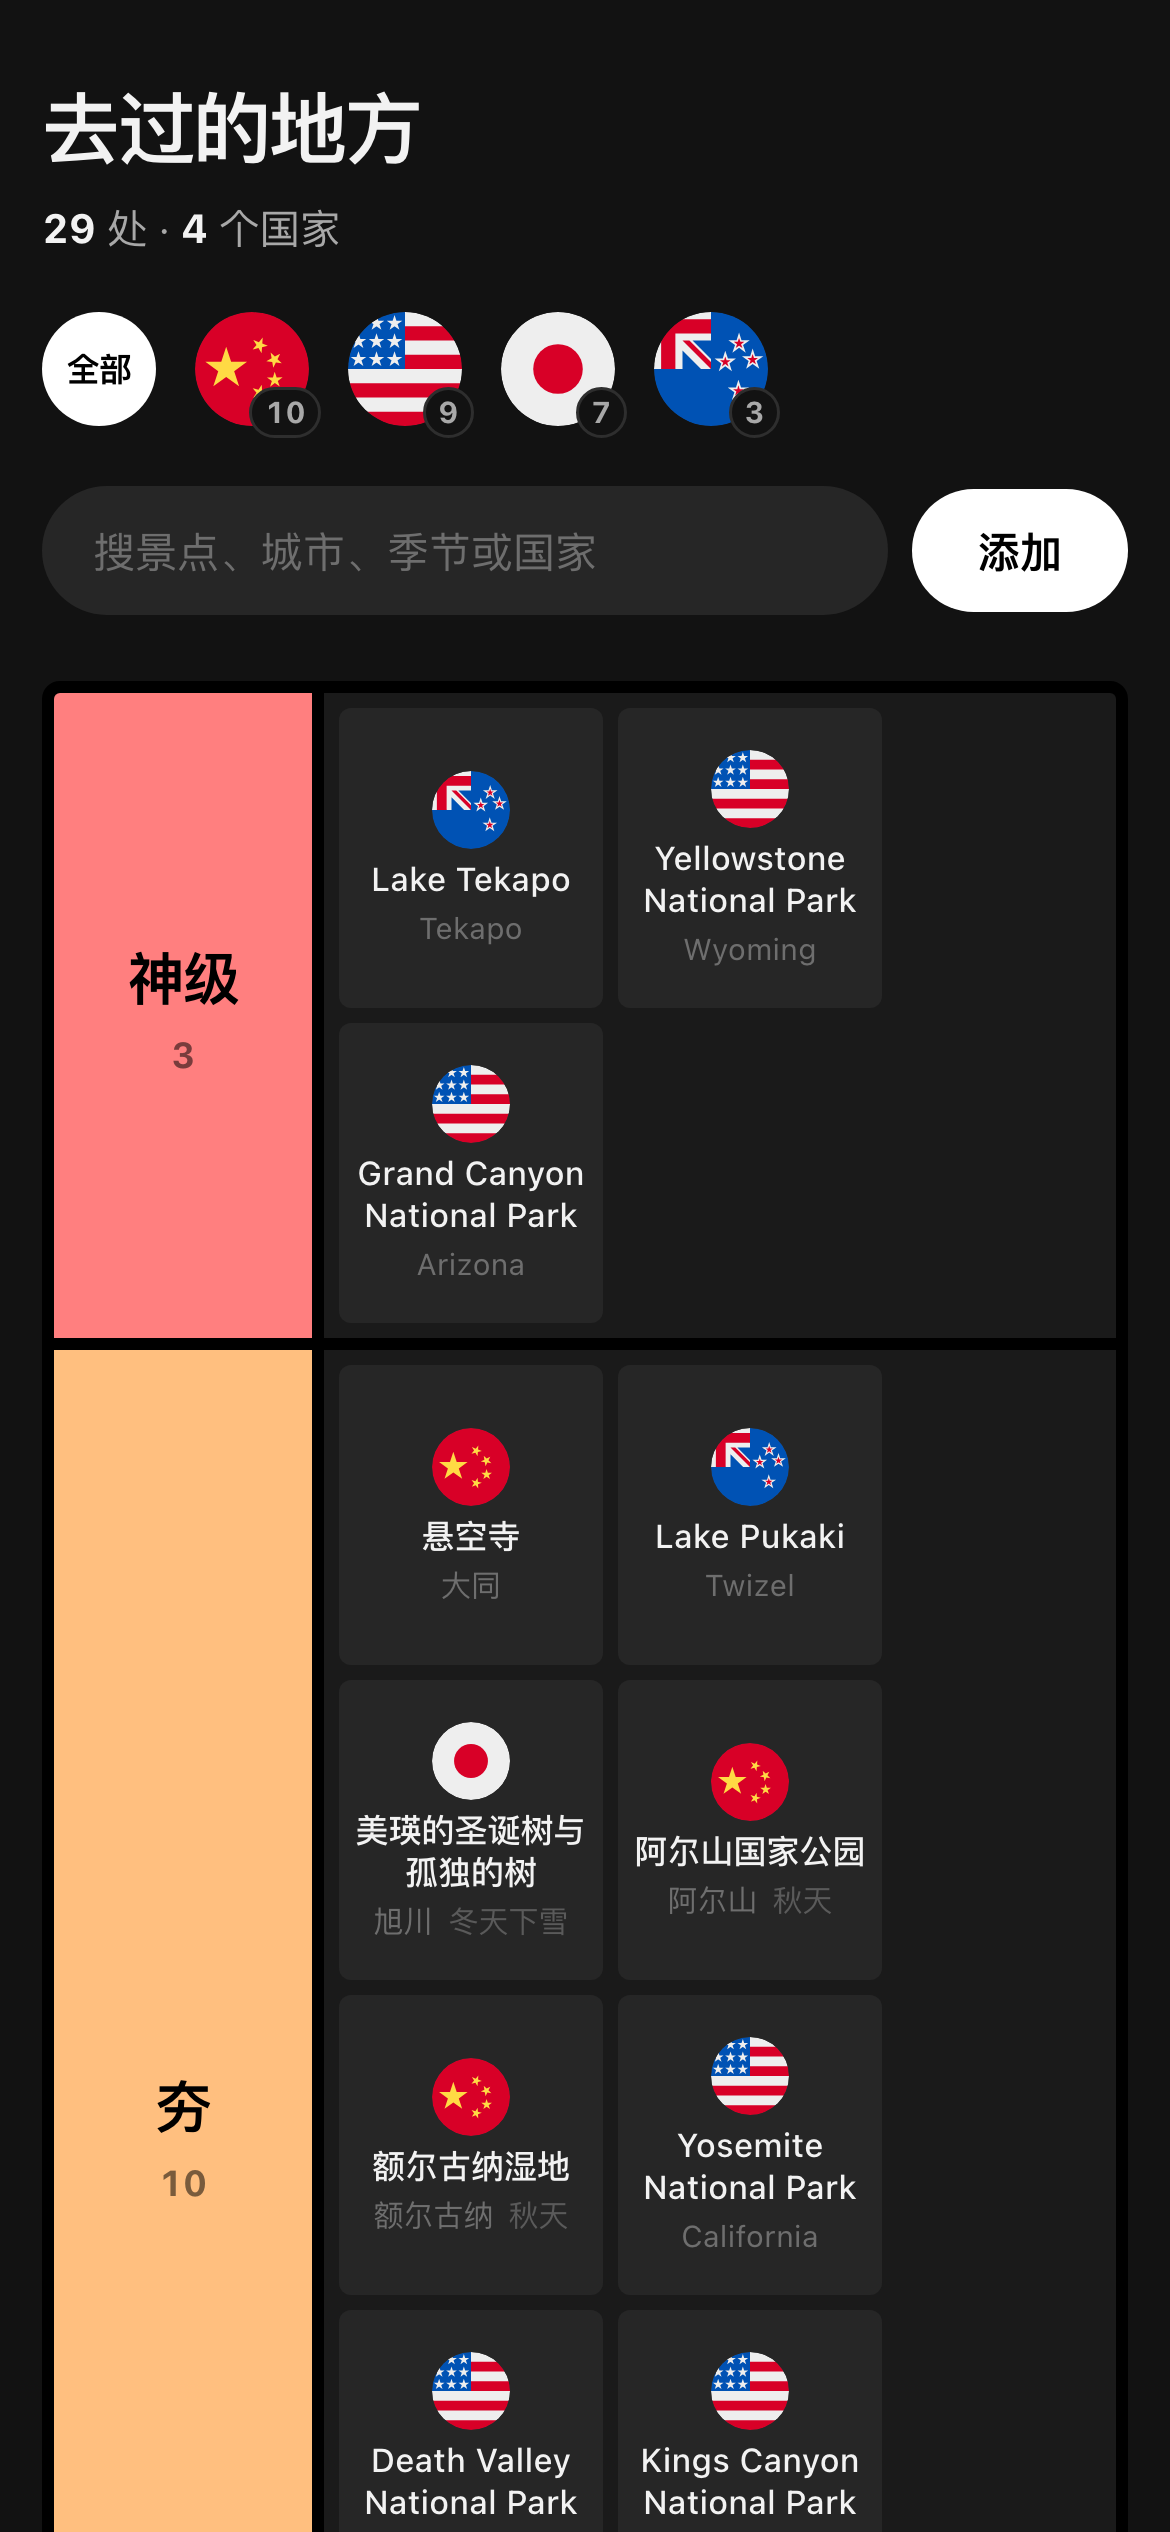
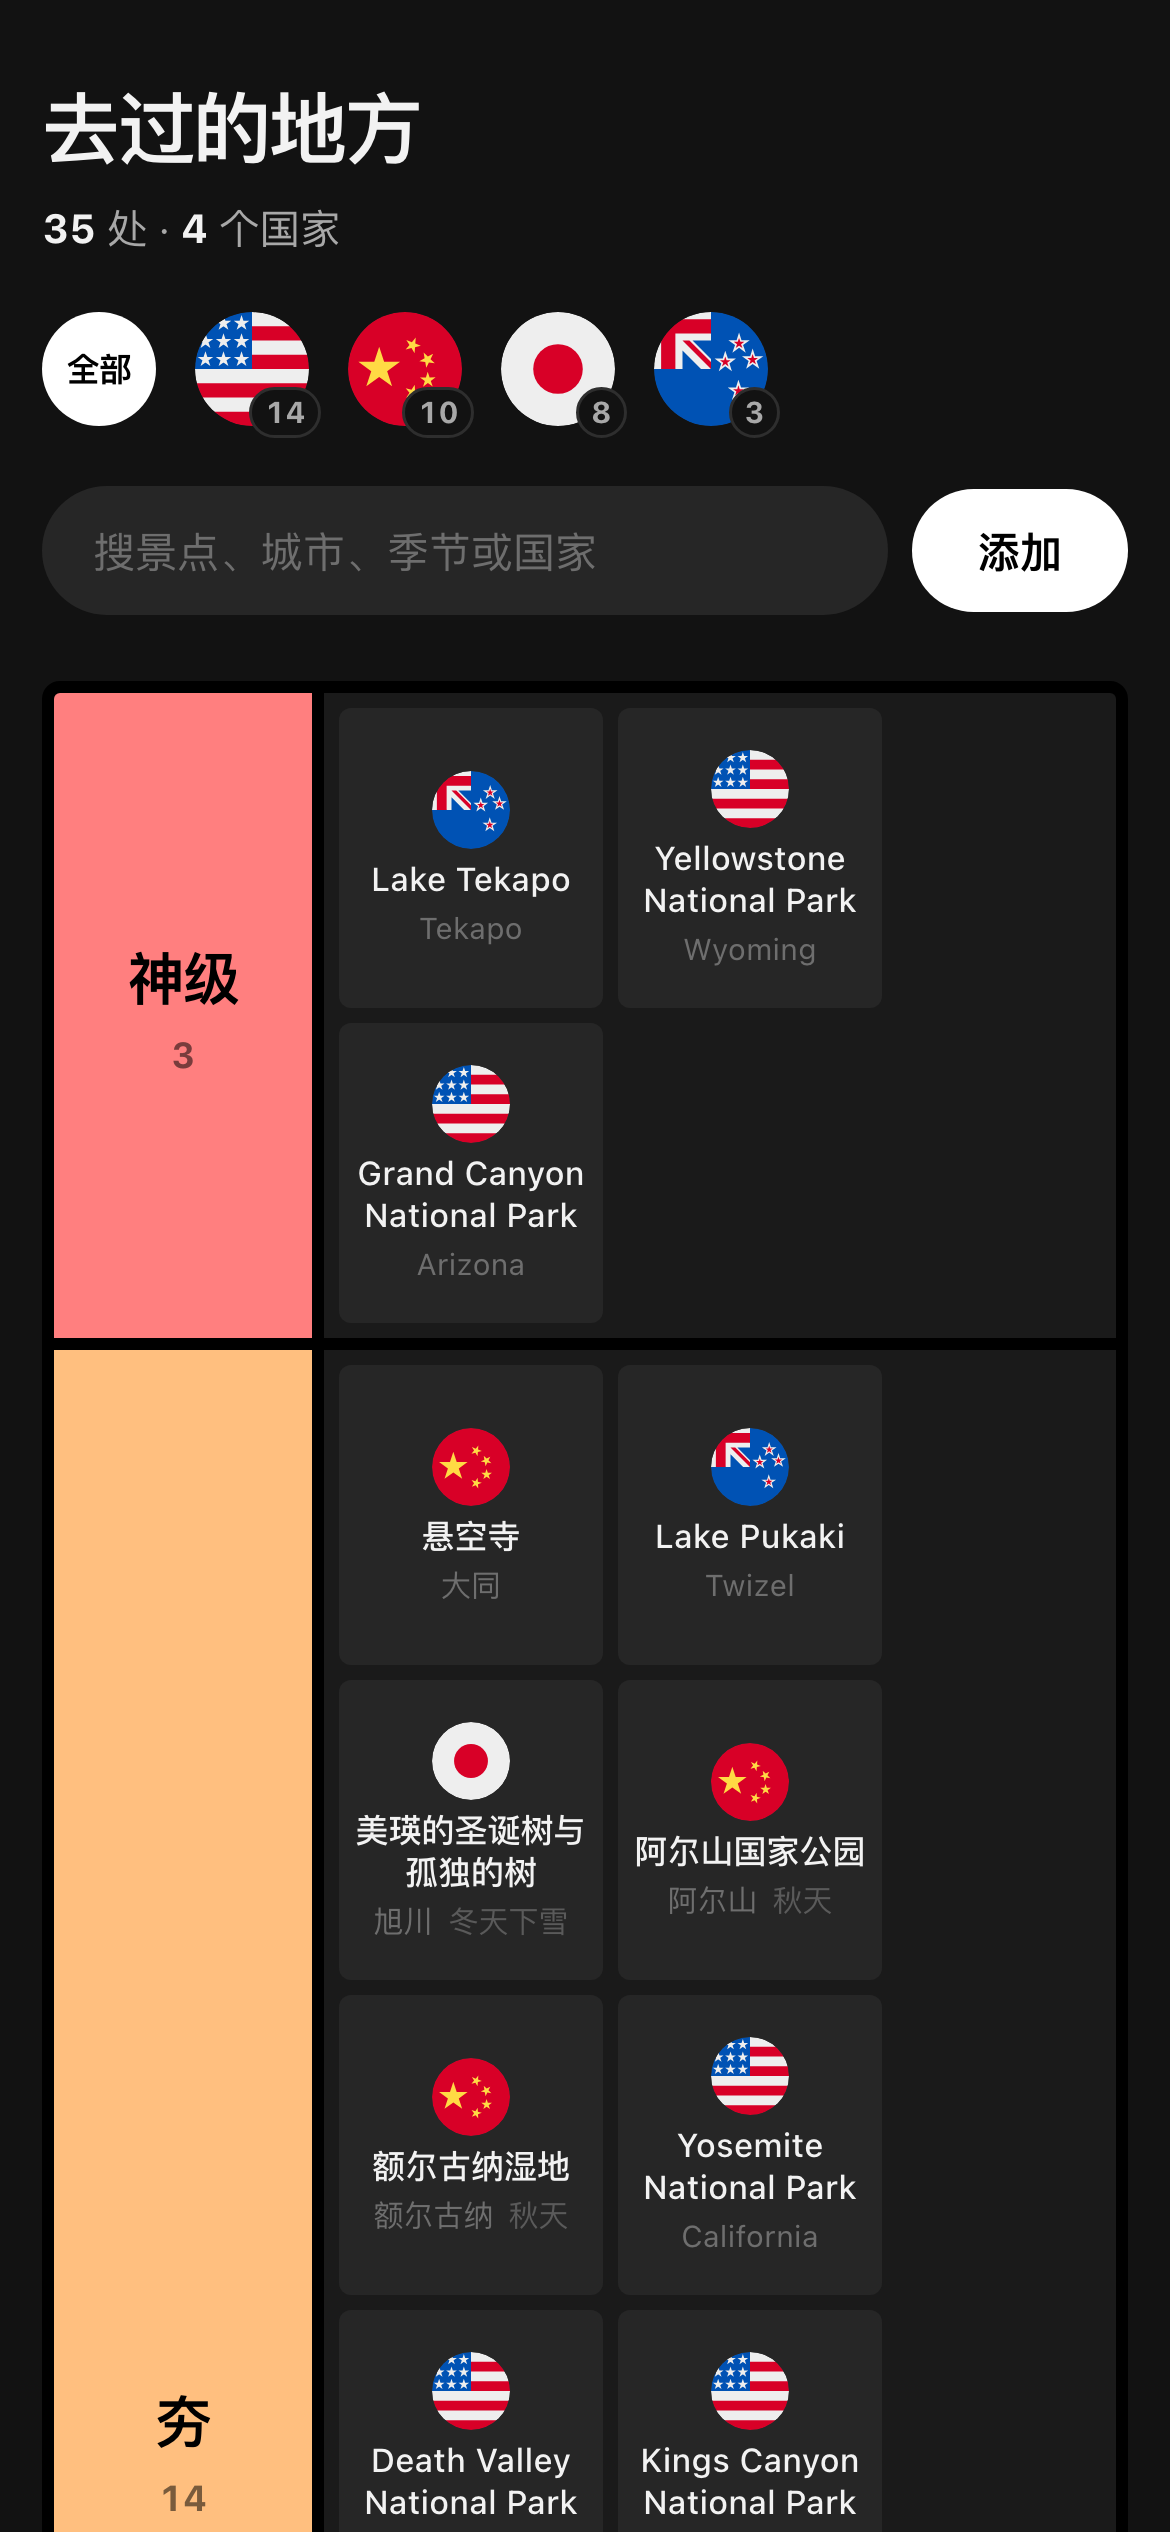
新增 6 处（美国 5、日本 1）
夯    Acadia National Park        Maine       美国
  夯    Bryce Canyon National Park  Utah        美国
  夯    Grand Teton National Park   Wyoming     美国
  夯    Monument Valley             Arizona     美国
  顶级  函馆山                       函馆        日本
  人上人 Pinnacles National Park     California  美国

共 35 处 / 4 个国家：美国 14、中国 10、日本 8、新西兰 3。美国成为最多。

两处更正与说明：
- arcadia → Acadia，缅因州那个国家公园，Arcadia 是另一个词
- Monument Valley 不是国家公园，是纳瓦霍部落公园（Navajo Tribal Park），
  且横跨亚利桑那与犹他，游客中心在亚利桑那一侧，故填 Arizona

35 条在桌面与手机均无截断、无溢出，视口内国旗全部加载成功。测试 66 项全过。

Changed region(s): [[0.1538, 0.1248, 0.4, 0.1872], [0.1231, 0.936, 0.1846, 0.9984], [0.1231, 0.8112, 0.1846, 0.8736]]

diff --git a/spots.js b/spots.js
@@ -32,5 +32,11 @@ window.SPOTS = [
   { "name": "Kings Canyon National Park"   , "city": "California"  , "season": ""        , "country": "美国"  , "tier": "hang" },
   { "name": "Arches National Park"         , "city": "Utah"        , "season": ""        , "country": "美国"  , "tier": "hang" },
   { "name": "Niagara Falls"                , "city": "New York"    , "season": ""        , "country": "美国"  , "tier": "hang" },
-  { "name": "Sequoia National Park"        , "city": "California"  , "season": ""        , "country": "美国"  , "tier": "top" }
+  { "name": "Sequoia National Park"        , "city": "California"  , "season": ""        , "country": "美国"  , "tier": "top" },
+  { "name": "Acadia National Park"         , "city": "Maine"       , "season": ""        , "country": "美国"  , "tier": "hang" },
+  { "name": "Bryce Canyon National Park"   , "city": "Utah"        , "season": ""        , "country": "美国"  , "tier": "hang" },
+  { "name": "Grand Teton National Park"    , "city": "Wyoming"     , "season": ""        , "country": "美国"  , "tier": "hang" },
+  { "name": "Monument Valley"              , "city": "Arizona"     , "season": ""        , "country": "美国"  , "tier": "hang" },
+  { "name": "Pinnacles National Park"      , "city": "California"  , "season": ""        , "country": "美国"  , "tier": "ren" },
+  { "name": "函馆山"                       , "city": "函馆"        , "season": ""        , "country": "日本"  , "tier": "top" }
 ];
